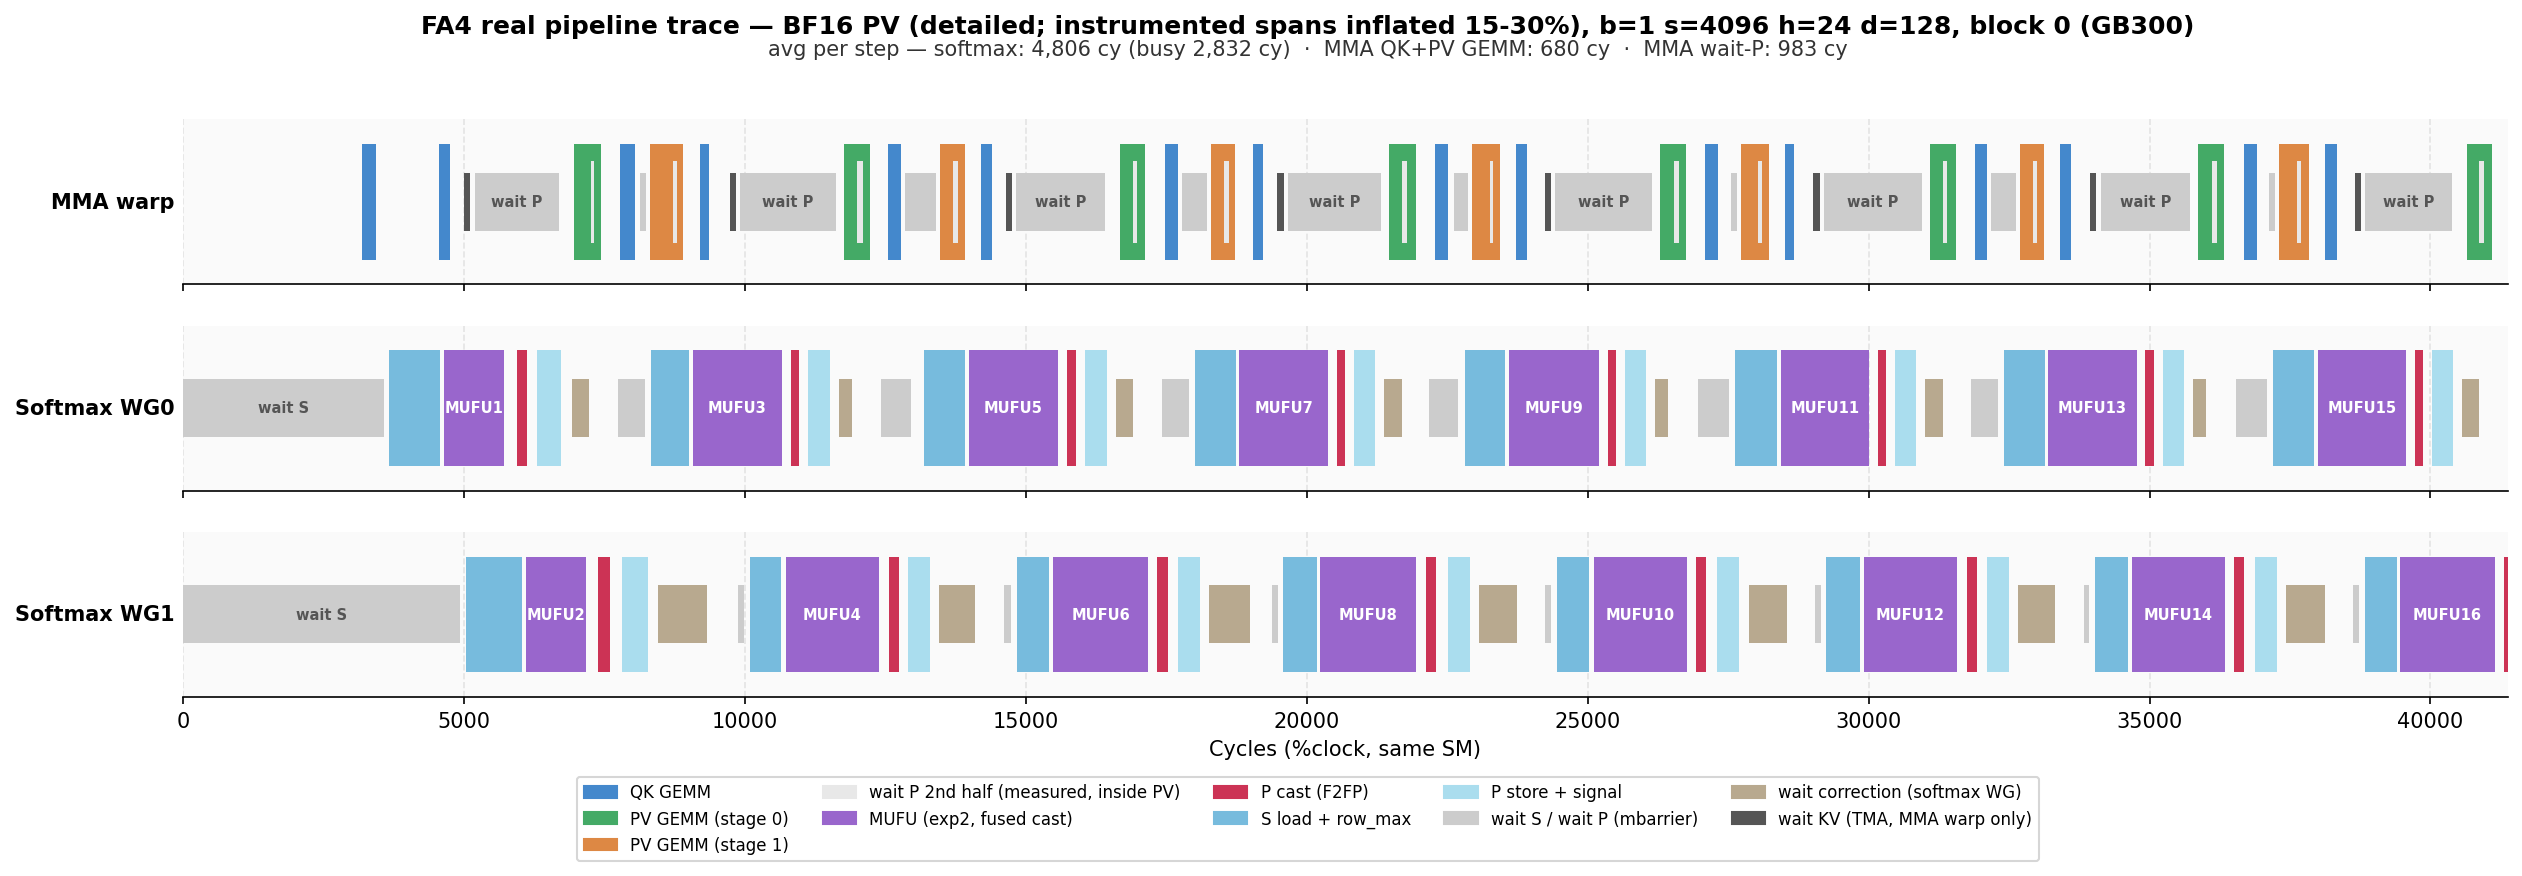
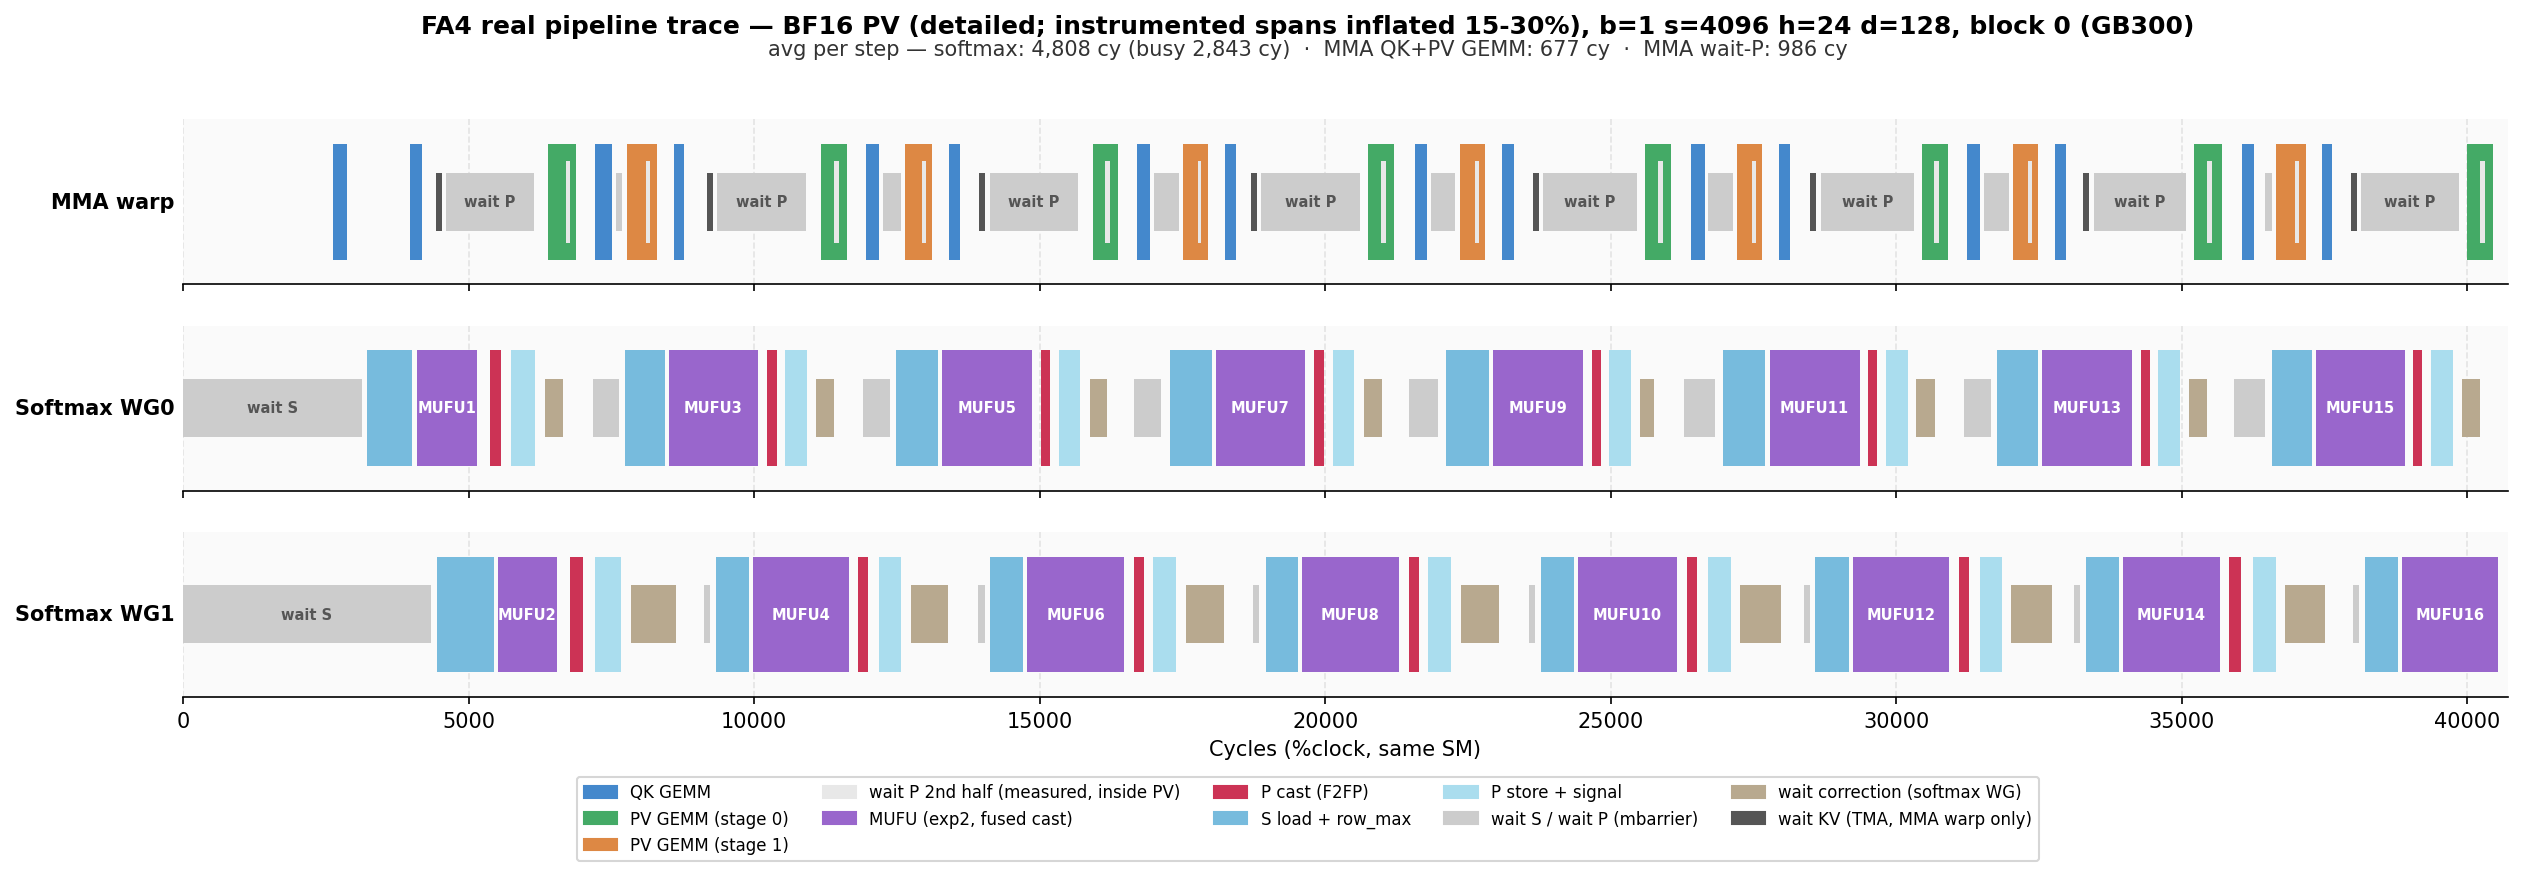
docs: detailed-trace box label MUFU (no exp2); exp2 only in the legend
The in-box "exp2+quant{n}" label ran the exp2 "2" into the iteration
number. Label the fused box "MUFU{n}" and move the detail to the legend
("MUFU (exp2) + P quant (fused log-domain, ...)"). bf16/fp8 already used
"MUFU{n}" boxes; regenerated all four for consistency.

diff --git a/flash_attn/cute/debug/trace_pipeline.py b/flash_attn/cute/debug/trace_pipeline.py
@@ -157,9 +157,11 @@ def render(spans_by_bg, block, output_path, title, start_iter, num_iters,
     # per-group quant loop — there is no separable exp2 phase, so the EXP
     # span is ~empty and the red span covers exp2 + group quant together.
     fused_exp_quant = pv_mode in ("fp4", "mxfp8")
-    quant_label = "exp2+quant" if fused_exp_quant else "F2FP"
+    # In-box label is the short phase name only (no "exp2" — its trailing 2
+    # reads as part of the iteration number); the legend carries the detail.
+    quant_label = "MUFU" if fused_exp_quant else "F2FP"
     quant_legend = (
-        f"exp2 + P quant (fused log-domain, {disp})"
+        f"MUFU (exp2) + P quant (fused log-domain, {disp})"
         if fused_exp_quant
         else "P cast (F2FP)"
     )
